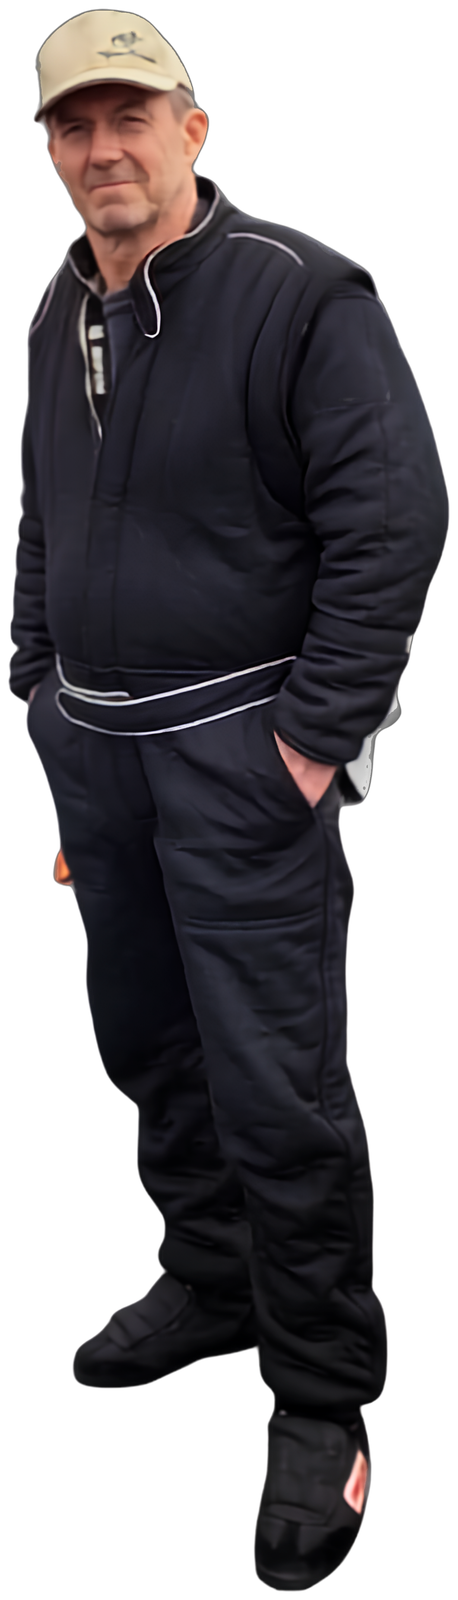
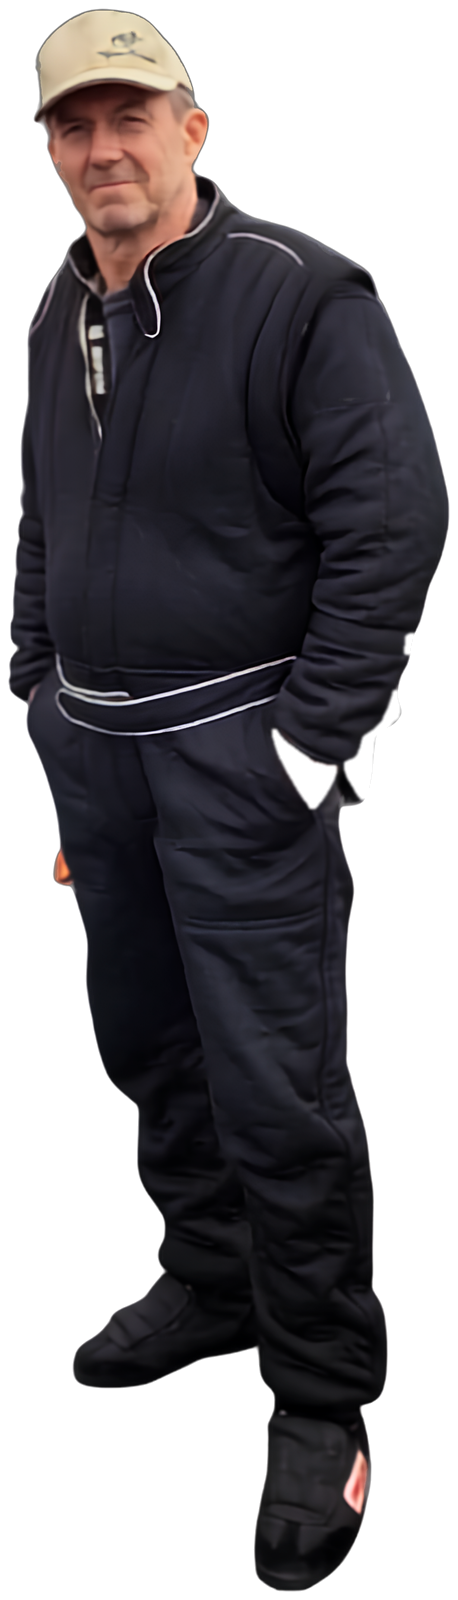
Refine PerformanceStrip component and enhance site assets.
- Update PerformanceStrip layout and styling for improved responsiveness and visual consistency.
- Modify stat card structure to include code and unit for better clarity.
- Adjust animations and interactions using GSAP for smoother user experience.
- Replace standing image assets with updated versions in both PNG and WebP formats.

Changed region(s): [[0.5808, 0.4062, 0.8865, 0.5312], [0.8865, 0.375, 0.917, 0.4062]]

diff --git a/src/components/home/PerformanceStrip.css b/src/components/home/PerformanceStrip.css
@@ -1,90 +1,171 @@
 .perf-strip__intro {
-  max-width: 40rem;
-  margin: 0 auto 2rem;
-  text-align: center;
+  max-width: 36rem;
+  margin: 0 0 2.25rem;
+}
+
+.perf-strip__meta {
+  margin: 0 0 0.75rem;
+  font-family: var(--font-mono);
+  font-size: 0.72rem;
+  letter-spacing: 0.16em;
+  text-transform: uppercase;
+  color: rgba(196, 201, 212, 0.78);
 }
 
 .perf-strip__title {
-  font-size: clamp(2rem, 5vw, 3.25rem);
-  letter-spacing: 0.015em;
-  line-height: 1.02;
-  margin: 0 0 0.85rem;
+  font-size: clamp(2.1rem, 5.5vw, 3.5rem);
+  letter-spacing: 0.01em;
+  line-height: 0.98;
+  margin: 0 0 0.75rem;
+  text-transform: uppercase;
 }
 
 .perf-strip__lead {
-  margin: 0 auto;
-  max-width: 42ch;
+  margin: 0;
+  max-width: 38ch;
   font-size: 1rem;
-  line-height: 1.65;
-  color: rgba(243, 245, 248, 0.88);
+  line-height: 1.6;
+  color: rgba(243, 245, 248, 0.82);
 }
 
-.perf-strip__grid {
+.perf-strip__board {
   display: grid;
   grid-template-columns: repeat(2, minmax(0, 1fr));
-  gap: 0.85rem;
-  width: min(100%, 52rem);
-  margin-inline: auto;
+  width: 100%;
+  border-top: 1px solid var(--color-hairline-strong);
+  border-bottom: 1px solid var(--color-hairline-strong);
+  background:
+    linear-gradient(
+      180deg,
+      rgba(42, 79, 154, 0.12) 0%,
+      transparent 42%
+    ),
+    linear-gradient(
+      90deg,
+      rgba(16, 20, 28, 0.55) 0%,
+      rgba(10, 12, 16, 0.2) 100%
+    );
+  position: relative;
 }
 
-.perf-strip__card {
-  border: 1px solid rgba(255, 255, 255, 0.08);
-  border-radius: var(--radius-md);
-  background: linear-gradient(
-    165deg,
-    rgba(22, 28, 40, 0.92) 0%,
-    rgba(16, 20, 28, 0.72) 100%
-  );
-  box-shadow: var(--shadow-inset-highlight);
-  padding: 1.25rem 1.15rem 1.15rem;
-  min-height: 7.5rem;
+.perf-strip__board::before {
+  content: '';
+  position: absolute;
+  top: 0;
+  left: 0;
+  width: 3px;
+  height: 100%;
+  background: var(--color-primary-blue);
+  pointer-events: none;
+}
+
+.perf-strip__cell {
+  position: relative;
+  min-height: 8.25rem;
+  padding: 1.15rem 1.1rem 1.2rem 1.25rem;
   display: flex;
   flex-direction: column;
-  justify-content: flex-end;
-  gap: 0.45rem;
-  transition: transform 0.55s var(--ease-spring);
+  justify-content: space-between;
+  gap: 0.85rem;
+  border-right: 1px solid var(--color-hairline);
+  border-bottom: 1px solid var(--color-hairline);
 }
 
-@media (hover: hover) and (pointer: fine) {
-  .perf-strip__card:hover {
-    transform: translateY(-2px);
-  }
+.perf-strip__cell:nth-child(2n) {
+  border-right: none;
+}
+
+.perf-strip__cell:nth-last-child(-n + 2) {
+  border-bottom: none;
+}
+
+.perf-strip__code {
+  margin: 0;
+  font-family: var(--font-mono);
+  font-size: 0.7rem;
+  letter-spacing: 0.18em;
+  text-transform: uppercase;
+  color: rgba(196, 201, 212, 0.72);
+}
+
+.perf-strip__readout {
+  margin: 0;
+  display: flex;
+  align-items: baseline;
+  gap: 0.35rem;
+  min-width: 0;
 }
 
 .perf-strip__value {
-  margin: 0;
   font-family: var(--font-display);
   font-weight: 600;
-  font-size: clamp(1.65rem, 4vw, 2.35rem);
-  letter-spacing: 0.02em;
-  line-height: 1;
+  font-size: clamp(2.35rem, 8vw, 3.75rem);
+  letter-spacing: 0.01em;
+  line-height: 0.9;
   font-variant-numeric: tabular-nums;
+  color: var(--color-almost-white);
+}
+
+.perf-strip__unit {
+  font-family: var(--font-ui);
+  font-weight: 600;
+  font-size: clamp(0.95rem, 2.2vw, 1.15rem);
+  letter-spacing: 0.08em;
+  text-transform: uppercase;
+  color: rgba(243, 245, 248, 0.62);
+  transform: translateY(-0.15em);
 }
 
 .perf-strip__label {
   margin: 0;
   font-family: var(--font-ui);
-  font-size: 0.8rem;
+  font-size: 0.82rem;
   letter-spacing: 0.14em;
   text-transform: uppercase;
   color: var(--color-silver-gray);
-  line-height: 1.35;
+  line-height: 1.3;
 }
 
 @media (min-width: 900px) {
-  .perf-strip__grid {
-    grid-template-columns: repeat(4, minmax(0, 1fr));
-    gap: 1rem;
+  .perf-strip__intro {
+    margin-bottom: 2.75rem;
   }
 
-  .perf-strip__card {
-    min-height: 8.5rem;
-    padding: 1.5rem 1.25rem 1.25rem;
+  .perf-strip__board {
+    grid-template-columns: repeat(4, minmax(0, 1fr));
+  }
+
+  .perf-strip__cell {
+    min-height: 10rem;
+    padding: 1.4rem 1.35rem 1.45rem 1.5rem;
+    border-bottom: none;
+  }
+
+  .perf-strip__cell:nth-child(2n) {
+    border-right: 1px solid var(--color-hairline);
+  }
+
+  .perf-strip__cell:last-child {
+    border-right: none;
+  }
+
+  .perf-strip__cell:nth-last-child(-n + 2) {
+    border-bottom: none;
+  }
+
+  .perf-strip__value {
+    font-size: clamp(2.8rem, 4.2vw, 4.25rem);
   }
 }
 
 @media (prefers-reduced-motion: reduce) {
-  .perf-strip__card {
-    transition: none;
+  .perf-strip__board {
+    background:
+      linear-gradient(
+        180deg,
+        rgba(42, 79, 154, 0.1) 0%,
+        transparent 42%
+      ),
+      var(--color-surface);
   }
 }

diff --git a/src/components/home/PerformanceStrip.tsx b/src/components/home/PerformanceStrip.tsx
@@ -9,20 +9,18 @@ import './PerformanceStrip.css'
 
 gsap.registerPlugin(ScrollTrigger, useGSAP)
 
-type StatCard = { value: string; label: string }
+type StatCard = { code: string; value: string; unit: string; label: string }
 
 function parseStat(
   value: string,
-): { prefix: string; num: number; decimals: number; suffix: string } | null {
-  const match = value.replace(/\s/g, ' ').match(/^([^0-9]*)([0-9]+(?:[.,][0-9]+)?)(.*)$/)
+): { num: number; decimals: number } | null {
+  const match = value.replace(/\s/g, ' ').match(/^([0-9]+(?:[.,][0-9]+)?)$/)
   if (!match) return null
-  const raw = match[2].replace(',', '.')
+  const raw = match[1].replace(',', '.')
   const decimals = raw.includes('.') ? raw.split('.')[1].length : 0
   return {
-    prefix: match[1],
     num: Number(raw),
     decimals,
-    suffix: match[3],
   }
 }
 
@@ -31,20 +29,20 @@ export function PerformanceStrip() {
   const locale = useLocale()
   const { quarter, topSpeed, eighth, base } = t.home.stats
   const cards: StatCard[] = [quarter, topSpeed, eighth, base]
-  const gridRef = useRef<HTMLDivElement>(null)
+  const boardRef = useRef<HTMLDivElement>(null)
   const decimalSep = locale === 'sv' ? ',' : '.'
 
   useGSAP(
     () => {
-      const grid = gridRef.current
-      if (!grid) return
+      const board = boardRef.current
+      if (!board) return
 
       const reduced = window.matchMedia('(prefers-reduced-motion: reduce)').matches
       if (reduced) return
 
-      const values = grid.querySelectorAll<HTMLElement>('[data-stat-value]')
+      const values = board.querySelectorAll<HTMLElement>('[data-stat-value]')
 
-      values.forEach((el) => {
+      values.forEach((el, index) => {
         const raw = el.dataset.statValue ?? ''
         const parsed = parseStat(raw)
         if (!parsed || Number.isNaN(parsed.num)) return
@@ -55,43 +53,53 @@ export function PerformanceStrip() {
           { n: 0 },
           {
             n: parsed.num,
-            duration: 1.2,
+            duration: 1.15,
+            delay: index * 0.06,
             ease: 'power2.out',
             scrollTrigger: {
-              trigger: el,
-              start: 'top 85%',
+              trigger: board,
+              start: 'top 80%',
               once: true,
             },
             onUpdate: () => {
-              const formatted =
+              el.textContent =
                 parsed.decimals > 0
                   ? state.n.toFixed(parsed.decimals).replace('.', decimalSep)
                   : String(Math.round(state.n))
-              el.textContent = `${parsed.prefix}${formatted}${parsed.suffix}`
             },
           },
         )
       })
     },
     {
-      scope: gridRef,
+      scope: boardRef,
       dependencies: [quarter.value, topSpeed.value, eighth.value, decimalSep],
     },
   )
 
   return (
-    <Section className="perf-strip">
+    <Section className="perf-strip" wide>
       <Reveal className="perf-strip__intro">
+        <p className="perf-strip__meta">{t.home.statsMeta}</p>
         <h2 className="perf-strip__title">{t.home.statsTitle}</h2>
         <p className="perf-strip__lead">{t.home.statsLead}</p>
       </Reveal>
 
-      <div ref={gridRef}>
-        <Reveal className="perf-strip__grid" delay={0.06} stagger={0.1} y={36}>
+      <div ref={boardRef}>
+        <Reveal className="perf-strip__board" delay={0.08} stagger={0.08} y={28}>
           {cards.map((card) => (
-            <article className="perf-strip__card" key={card.label}>
-              <p className="perf-strip__value" data-stat-value={card.value}>
-                {card.value}
+            <article className="perf-strip__cell" key={card.code}>
+              <p className="perf-strip__code">{card.code}</p>
+              <p className="perf-strip__readout">
+                <span
+                  className="perf-strip__value"
+                  data-stat-value={parseStat(card.value) ? card.value : undefined}
+                >
+                  {locale === 'sv' && parseStat(card.value)
+                    ? card.value.replace('.', ',')
+                    : card.value}
+                </span>
+                {card.unit ? <span className="perf-strip__unit">{card.unit}</span> : null}
               </p>
               <p className="perf-strip__label">{card.label}</p>
             </article>

diff --git a/AGENTS.md b/AGENTS.md
@@ -2,28 +2,28 @@
 
 - Prefers Swedish in conversation and product copy; the site must ship bilingual EN + SV.
 - Keep the existing Vite + React stack; do not migrate to Next.js from the blueprint.
-- MVP first (seven pages, design system, copy, static data); phase 2 dragstrip simulator and interactive chassis are now approved and in scope.
+- MVP first (seven pages, design system, copy, static data); phase 2 includes Pass Arena (PlayCanvas) and interactive chassis.
 - MVP contact should use mailto (zero setup); Formspree/Resend or similar can come later.
 - Rejected Speed Rusher and Aristotele as too messy; prefer clean condensed webfonts (Oswald display, Barlow Condensed UI, DM Sans body) without italic display headings.
 - Visual makeovers should stay on-brand (dark base, primary blue, locked fonts); prefer high-end cinematic polish over generic racing neon.
 - Motion should stay intentional and performant: GPU `transform`/`opacity` only, hover gated to fine pointers, respect `prefers-reduced-motion`; avoid blur-heavy reveals.
 - Design north star: the whole site should feel like one drag pass (staging → launch → pass → chutes → partner invite); weigh choices against tyngd, precision, and återhållsamhet; reject scroll-dots, custom cursors, and glassmorphism cards.
 - Voice: Anders as underdog — humble garage builder, never boastful or “pro brand”; let times and craft speak.
-- For the car 360, prefer a lightweight frame-based turntable over Three.js / WebGL.
-- Home hero should be message-led (record/team headline, short lead, CTAs) with the EDH logo as brand mark—not a logo-only poster or plain “EDH RACING” type; keep car/track visible via a local scrim, full-bleed video behind the header.
-- Home Anders feature should be image-led (standing cutout) with sparse copy; fuller biography lives on Journey; avoid large empty dark voids on Home—fill sections with real race/team imagery rather than card-heavy SaaS grids.
+- For the car 360, prefer a lightweight frame-based turntable over Three.js / WebGL; Pass Arena is the separate PlayCanvas 3D feature.
+- Home hero should be logo-led and sparse: TEAM above, centered EDH logo, TOP DOORSLAMMER below, short CTAs—no repeated slogans or harsh logo shadow; full-bleed video behind the header with a local scrim; GSAP for entrance.
+- Home Anders feature should be image-led (standing cutout) with sparse copy; Results should open pass-first (big times on race imagery before tables); avoid empty dark voids and card-heavy SaaS grids on Home.
 
 ## Learned Workspace Facts
 
 - Public GitHub repo: https://github.com/amandanordqvist/edh-race (local project `edh-race`).
 - Site is for EDH Racing / Anders Edh — Scandinavian drag racing team; brand direction is Scandinavian minimalism meets racing (dark base, primary blue accent).
-- Spec/content source of truth is `full_website_blueprint (1).md` (and `blueprint.md`); `PRODUCT.md` locks brand/product context for design; blueprint mentions Next.js but implementation is Vite + React Router.
-- Results, sponsors, calendar, team, and similar content live as static TypeScript data files under `src/data/` for MVP (light CMS later if needed).
+- Spec/content source of truth is `full_website_blueprint (1).md` (and `blueprint.md`); `PRODUCT.md` locks brand/product context; feature specs/plans live in `docs/superpowers/`.
+- Results, sponsors, calendar, team, simulator timings, and similar content live as static TypeScript data files under `src/data/` for MVP (light CMS later if needed).
 - i18n is a custom locale provider with `en`/`sv` dictionaries under `src/i18n/`.
 - Core narrative arc: garage-built path from Hudiksvall (mini-moped roots) to Santa Pod record pace (5.74 s @ 415 km/h).
-- GSAP powers scroll reveals, HomeStory pin+scrub storytelling, and phase-2 interactivity (dragstrip simulator, interactive chassis SVG hotspots).
-- Local animation/design skills live under `.agents/skills/` (animate, improve-animations, apple-design, emil-design-eng, etc.).
-- Machine page hero uses `CarTurntable` with curated WebP frames under `public/images/images-car/showcase/` (raw plates are not a true sequential 360); feature specs/plans live in `docs/superpowers/`.
-- Primary nav spine is Journey → Machine → Sponsors (`contact`); Results, Team, and Media sit under secondary “Mer”.
-- Home `HomeDriver` uses the standing Anders cutout at `/images/standinganders.webp` (PNG fallback).
+- GSAP powers scroll reveals and HomeStory pin+scrub; Pass Arena is PlayCanvas on `/sv/passet` and `/en/pass` with a Home teaser only (no WebGL on Home); interactive chassis remains phase-2.
+- Machine page hero uses `CarTurntable` with curated WebP frames under `public/images/images-car/showcase/` (raw plates are not a true sequential 360).
+- Primary nav spine is Journey → Machine → Sponsors (`contact`); Results, Team, Media, and Pass sit under secondary “Mer”.
+- Official Facebook is https://www.facebook.com/edhracing; Media embeds it via `FacebookFeed`.
+- Home `HomeDriver` uses `/images/standinganders.webp` (PNG fallback); Results opens with `ResultsHero` (pass-first).
 - Historical Journey/HomeStory plates live under `public/images/journey/`; HomeStory is a horizontal beat rail (desktop pin+scrub, mobile/reduced-motion snap).
